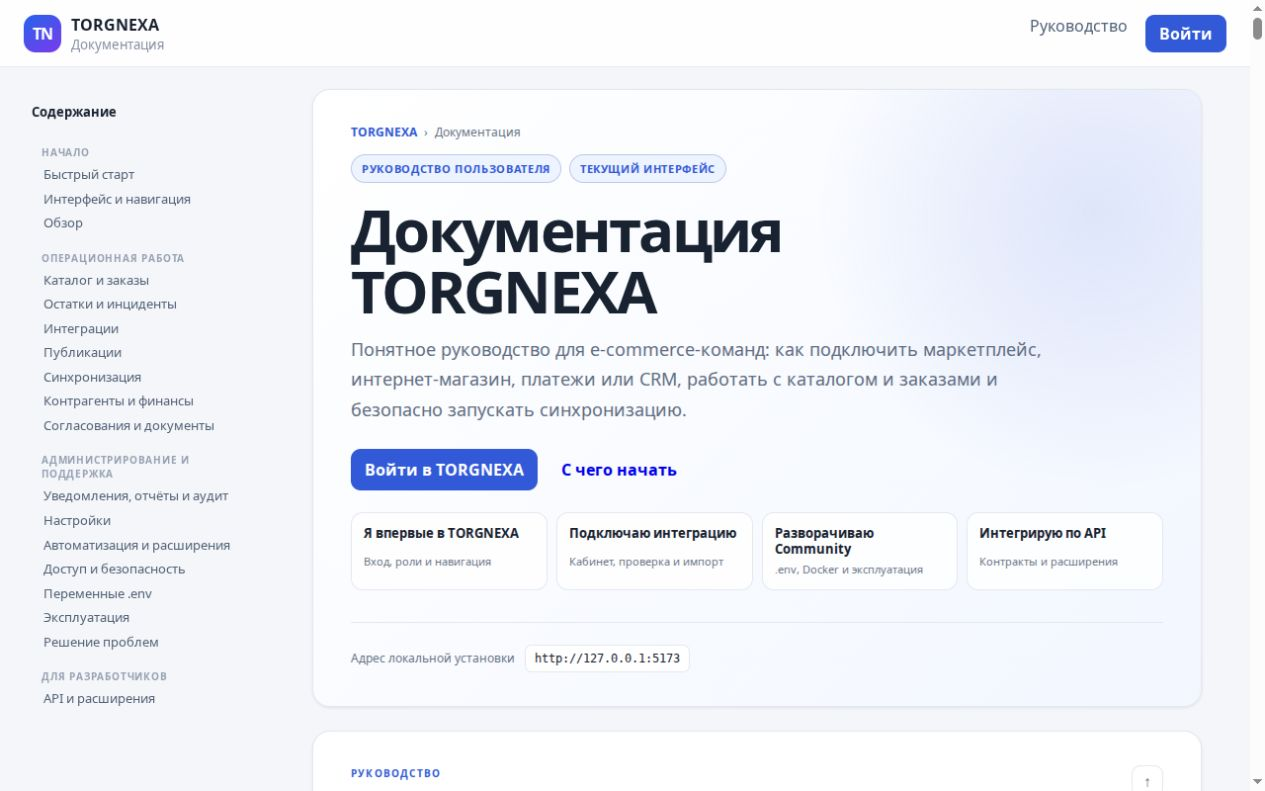
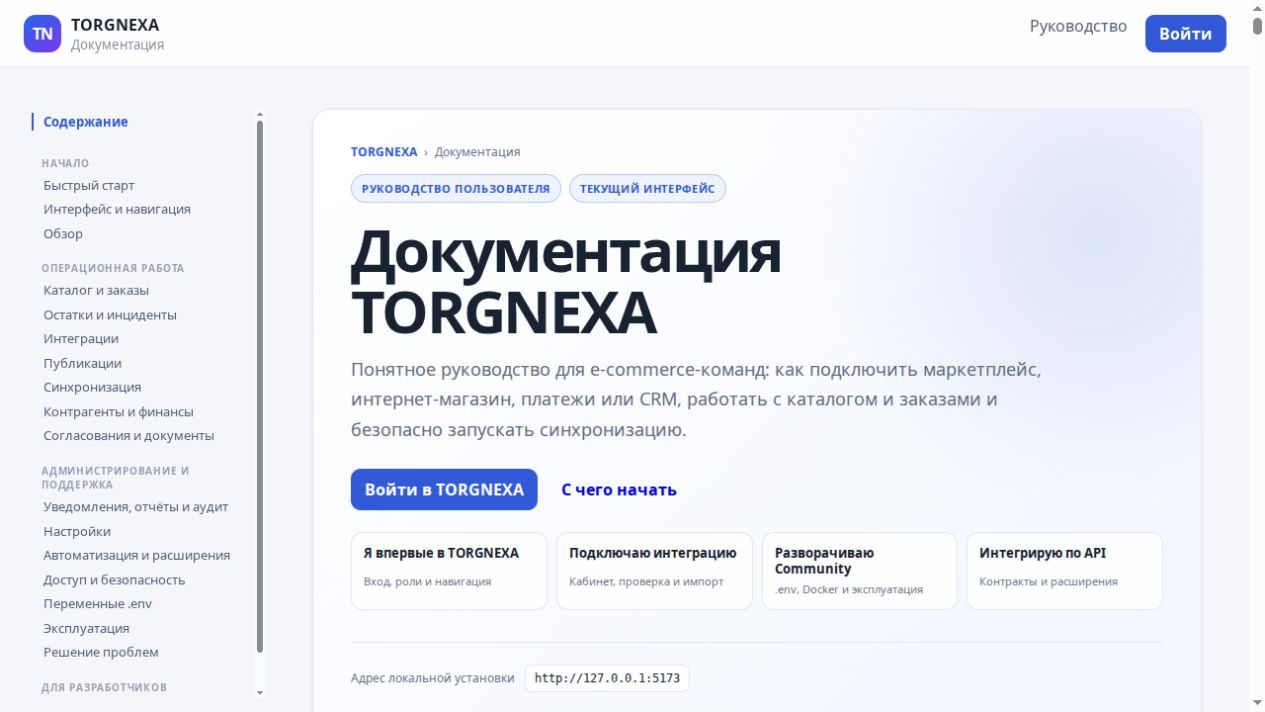
расширяем интеграцию

diff --git a/frontend/src/pages/PublicDocumentationPage.tsx b/frontend/src/pages/PublicDocumentationPage.tsx
@@ -784,10 +784,10 @@ export function PublicDocumentationPage({sectionId}: {sectionId?: DocumentationS
             ["Пробный запуск", "Перед импортом доступна предварительная проверка: она считает политики, чтение и запись, но не меняет внешний сервис."],
           ]}/>
           <RuntimeMatrix/>
-          <DocsScreenshot src="/docs/integrations.png" width={1265} height={791} alt="Раздел «Интеграции» TORGNEXA с карточками подключения" caption="Экран каталога: карточка провайдера ведёт к подключению кабинета и проверке доступа."/>
+          <DocsScreenshot src="/docs/integrations.png" width={1265} height={712} alt="Раздел «Интеграции» TORGNEXA с карточками подключения" caption="Экран каталога: карточка провайдера ведёт к подключению кабинета и проверке доступа."/>
           <IntegrationConnectionGuide/>
           <IntegrationQualificationGuides/>
-          <DocsScreenshot src="/docs/integration-connection.png" width={1265} height={791} alt="Пошаговое подключение кабинета интеграции TORGNEXA" caption="Визуальная шпаргалка к панели подключения: кабинет, учётные данные, проверка, возможности и запуск импорта."/>
+          <DocsScreenshot src="/docs/integration-connection.png" width={1265} height={712} alt="Пошаговое подключение кабинета интеграции TORGNEXA" caption="Визуальная шпаргалка к панели подключения: кабинет, учётные данные, проверка, возможности и запуск импорта."/>
           <p>Для OAuth-подключения нажмите «Войти». Токен доступа обновляется сервером автоматически до истечения срока. Повторный вход требуется только если площадка отозвала доступ, отклонила токен обновления или не выдала его; карточка кабинета покажет «Войти снова».</p>
           <p>К текущим готовым storefront-маршрутам относятся 1С‑Битрикс, CS-Cart, Magento, Medusa, OpenCart, Shopify и Shopware; для них рабочий контур ограничен товарами и явно указанными направлениями синхронизации. Bitrix24 — отдельный CRM-контур: лиды, сделки, контакты, компании и товарные строки не превращаются в product sync.</p>
           <p>В разделе «Качество публикации» (<code>/publication-quality</code>) оператор видит target-specific score, проблемы карточки и срок действия evidence. `ready` допускает запись, а `blocked`, `approval_required`, `stale`, `unsupported` и `unknown` останавливают её; старый receipt не может пройти preflight после изменения товара или capability.</p>
@@ -924,7 +924,7 @@ export function PublicDocumentationPage({sectionId}: {sectionId?: DocumentationS
           <dl className="docs-faq">
             {troubleshootingFaq.map(({question, answer}) => <div key={question}><dt>{question}</dt><dd>{answer}</dd></div>)}
           </dl>
-          <DocsScreenshot src="/docs/documentation.png" width={1265} height={791} alt="Публичная документация TORGNEXA" caption="Руководство доступно до входа и адаптируется под настольный и мобильный экран."/>
+          <DocsScreenshot src="/docs/documentation.png" width={1265} height={712} alt="Публичная документация TORGNEXA" caption="Руководство доступно до входа и адаптируется под настольный и мобильный экран."/>
         </DocSection>
         </DocumentationSectionContext.Provider>
       </main>

diff --git a/internal/platform/migration/catalog_test.go b/internal/platform/migration/catalog_test.go
@@ -31,7 +31,7 @@ func TestRepositoryCatalogPasses(t *testing.T) {
 		"operations_foundation", "commerce_extensions", "regulated_integrations", "control_plane",
 		"legacy_contract", "runtime_operations", "ai_advisory", "ai_provider_credential_class", "mcp_client_accounts",
 		"ai_provider_qwen_deepseek", "trust_control_plane", "social_publication_runtime", "payments_core", "payments_remote_id_lookup", "ai_provider_claude", "ai_provider_local_runtime", "ai_provider_gemini_grok", "offline_demo_product_images", "user_profiles",
-		"upload_security_pg18_compat", "audit_realtime_lookup_index", "workflow_automation", "payment_reconciliation_worker", "returns_cancellations_refunds", "wms_operator_tasks", "wms_task_batches", "replenishment_forecast_planning", "product_publication_quality", "channel_unit_economics",
+		"upload_security_pg18_compat", "audit_realtime_lookup_index", "workflow_automation", "payment_reconciliation_worker", "returns_cancellations_refunds", "wms_operator_tasks", "wms_task_batches", "replenishment_forecast_planning", "product_publication_quality", "channel_unit_economics", "integration_state_center",
 	}
 	if len(catalog.Migrations) != len(expected) {
 		t.Fatalf("catalog migration count = %d, want %d", len(catalog.Migrations), len(expected))

diff --git a/docs/connectors/pochta-russia/spec.md b/docs/connectors/pochta-russia/spec.md
@@ -3,7 +3,7 @@
 - идентификатор: `pochta-russia`
 - семейство: `logistics`
 - версия SDK: `1`
-- авторизация для проверки: JSON `{ "token": "…", "key": "…" }`
+- авторизация для проверки: JSON `{ "token": "…", "key": "…", "tracking_login": "…", "tracking_password": "…" }`
 - endpoint проверки: `https://otpravka-api.pochta.ru/1.0/settings`
 
 Проверка передаёт токен приложения в заголовке
@@ -13,12 +13,15 @@
 
 Манифест перечисляет нормализуемые операции расчёта, отправлений, отмены,
 возврата, этикетки, трекинга и пунктов выдачи. В runtime включены bounded
-read-only `pickup.points.read` и `logistics.rates.read`: поиск ОПС выполняется
+read-only `pickup.points.read`, `logistics.rates.read` и
+`logistics.track.read`: поиск ОПС выполняется
 через официальный `GET /postoffice/1.0/by-address`, данные отделения — через
 `GET /postoffice/1.0/{postal-code}`, а тариф — через
 `GET https://tariff.pochta.ru/v2/calculate/tariff/delivery` для объекта 23030.
 Тарифный запрос принимает индексы и суммарный вес, возвращает нейтральный
-предпросмотр в RUB и не передаёт секреты кабинета. Отправления, возвраты,
-этикетки и трекинг остаются fail-closed до qualification. Для защиты от
+предпросмотр в RUB и не передаёт секреты кабинета. Tracking выполняет один
+SOAP 1.2 `getOperationHistory` по domestic/S10 barcode, ограничивает историю
+100 записями и возвращает последний нормализованный статус. Отправления,
+возвраты и этикетки остаются fail-closed до qualification. Для защиты от
 fan-out общий запрос принимает SDK-лимит до 500, но один вызов к Почте России
 ограничен 50 ОПС.

diff --git a/docs/connectors/pochta-russia/capability-audit.md b/docs/connectors/pochta-russia/capability-audit.md
@@ -13,13 +13,19 @@
 - [Спецификация сервиса отслеживания](https://tracking.pochta.ru/specification) — SOAP-трекинг и отдельный доступ;
 - [Как получить доступ к API](https://tracking.pochta.ru/support/faq/how_to_get_access) — регистрация и параметры доступа.
 
-В текущем runtime включены credential-проверка, bounded `pickup.points.read` и
-read-only `logistics.rates.read`. Для тарифа используется официальный
+В текущем runtime включены credential-проверка, bounded `pickup.points.read`,
+read-only `logistics.rates.read` и единичное `logistics.track.read`. Для тарифа используется официальный
 `GET https://tariff.pochta.ru/v2/calculate/tariff/delivery` с объектом
 «Посылка онлайн обыкновенная» (`23030`); запрос передаёт индексы и суммарный
 вес, а ответ проверяется по `paynds` и контрольному сроку доставки. Тарифный
 калькулятор не получает секреты кабинета.
 
-Создание и отмена заказов, документы, возвраты и трекинг требуют актуальных
+Для tracking используется отдельный SOAP 1.2 endpoint
+`https://tracking.russianpost.ru/rtm34`, метод `getOperationHistory`, русский
+язык и отдельные `tracking_login`/`tracking_password`. Принимается один
+14-значный российский или 13-значный S10 barcode; история ограничена 100
+записями, а в runtime выходит только последний нормализованный статус.
+
+Создание и отмена заказов, документы и возвраты требуют актуальных
 обезличенных fixtures, маппинга почтовых сервисов и доказанной идемпотентности
 на тестовом кабинете. До этого они остаются fail-closed.
